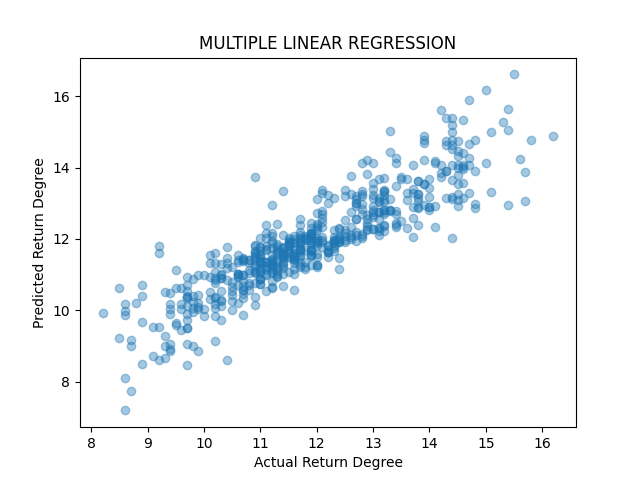
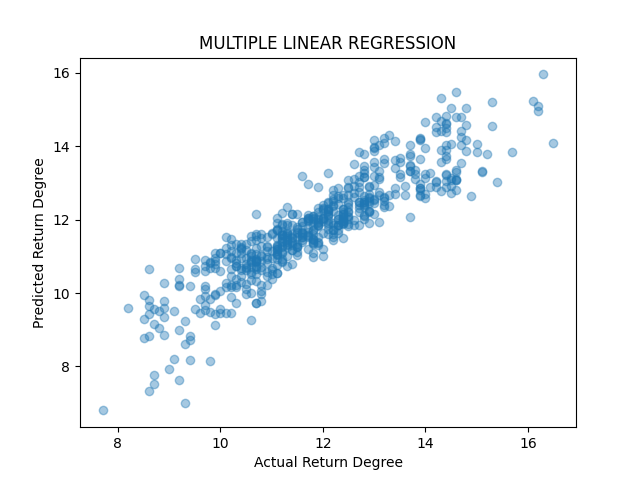
<feat> make result csv

diff --git a/multi_linear_regressor.py b/multi_linear_regressor.py
@@ -6,20 +6,23 @@ from sklearn.linear_model import LinearRegression
 
 df1 = pd.read_csv("augumentationed_data.csv", index_col=None)
 
-def return_degree_model():
+def return_degree_model(save=False):
     df2 = pd.read_csv("degree_data.csv", index_col=None)
 
     df = pd.merge(df1, df2, how='left')
 
-    x = df.drop(['날짜', '환수온도'], axis=1)
+    x = df.drop('환수온도', axis=1)
     y = df['환수온도']
 
     x_train, x_test, y_train, y_test = train_test_split(x, y, train_size=0.8, test_size=0.2)
 
-    MLR = LinearRegression()
-    MLR.fit(x_train, y_train)
+    x_train1 = x_train.drop('날짜', axis=1)
+    x_test1 = x_test.drop('날짜', axis=1)
 
-    y_predict = MLR.predict(x_test)
+    MLR = LinearRegression()
+    MLR.fit(x_train1, y_train)
+
+    y_predict = MLR.predict(x_test1)
 
     plt.scatter(y_test, y_predict, alpha=0.4)
     plt.xlabel("Actual Return Degree")
@@ -27,9 +30,21 @@ def return_degree_model():
     plt.title("MULTIPLE LINEAR REGRESSION")
     plt.savefig('Return_Degree_Result.png')
 
-    print('Accuracy : {}%'.format(round(1-(((y_test-y_predict)**2).sum()/((y-y.mean())**2).sum()), 4)*100))
+    print('R**2 : {}%'.format(round(1-(((y_test-y_predict)**2).sum()/((y-y.mean())**2).sum()), 4)*100))
 
-def temperature_model():
+    if save:
+        result_df = pd.DataFrame()
+        for x in x_test.columns:
+            result_df[x] = x_test[x]
+        
+        result_df['real_return'] = y_test
+        result_df['pred_return'] = y_predict
+
+        result_df = result_df.sort_index()
+
+        result_df.to_csv("Return_Model_Result.csv", index=None)
+
+def temperature_model(save=False):
     df2 = pd.read_csv("temperature.csv", index_col=None)
 
     df = pd.merge(df1, df2, how='left')
@@ -43,11 +58,23 @@ def temperature_model():
     MLR.fit(x_train, y_train)
 
     y_predict = MLR.predict(x_test)
-
+    
     plt.scatter(y_test, y_predict, alpha=0.4)
     plt.xlabel("Actual Temperature")
     plt.ylabel("Predicted Temperature")
     plt.title("MULTIPLE LINEAR REGRESSION")
     plt.savefig('Temperature_Result.png')
 
-    print('Accuracy : {}%'.format(round(1-(((y_test-y_predict)**2).sum()/((y-y.mean())**2).sum()), 4)*100))
+    print('R**2 : {}%'.format(round(1-(((y_test-y_predict)**2).sum()/((y-y.mean())**2).sum()), 4)*100))
+
+    if save:
+        result_df = pd.DataFrame()
+        for x in x_test.columns:
+            result_df[x] = x_test[x]
+        
+        result_df['real_temp'] = y_test
+        result_df['pred_temp'] = y_predict
+
+        result_df.to_csv("Temp_Model_Result.csv", index=None)
+
+return_degree_model(save=True)
